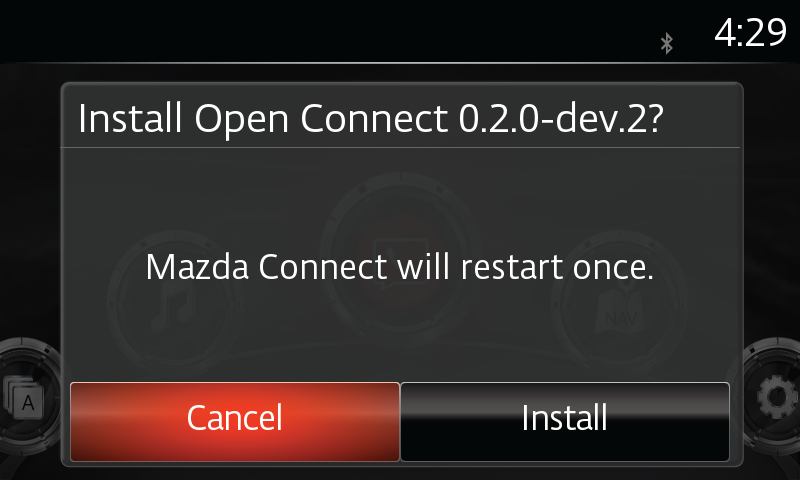
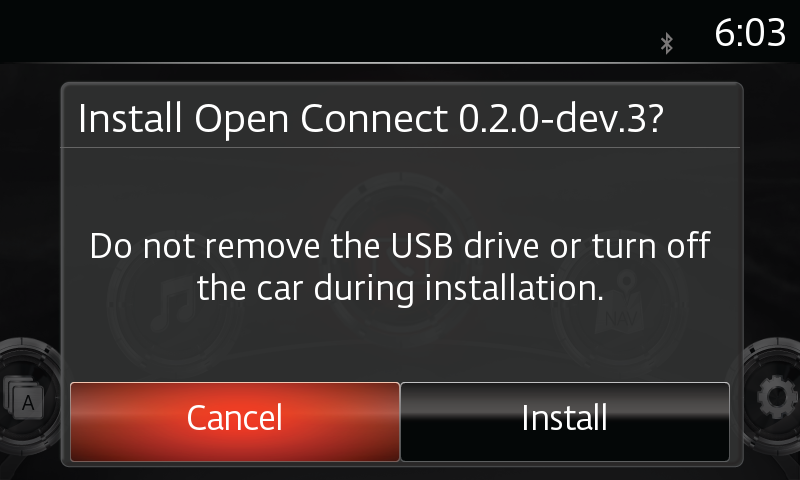
Preserve installer message captures and old-CMU cleanup handoff

Changed region(s): [[0.0938, 0.4688, 0.9062, 0.6562], [0.875, 0.0312, 1.0, 0.0938], [0.7812, 0.2188, 0.8125, 0.2812]]

diff --git a/THIRD_PARTY.md b/THIRD_PARTY.md
@@ -12,13 +12,18 @@ run from a public checkout alone.
 
 ## Documentation screenshots
 
-The seven PNG images in `docs/assets/guide/` show Open Connect **0.2.0-dev.2** running
+The seven PNG images in `docs/assets/guide/` show Open Connect running
 on Mazda firmware **55.00.750B NA**. They were captured directly from the CMU's
 Wayland display on November 18, 2026, without cropping or other image edits.
 Each was reviewed for personal data, credentials and diagnostic overlays.
 The separately authored `cmu-frame.svg` is a decorative bezel displayed around
 the captures by the website; it is not part of the captured screen.
-The USB bundle used for capture came from [CI run 44350948917](https://github.com/aeharding/open-connect/actions/runs/44350948917)
+`install.png` and `complete.png` show **0.2.0-dev.3**, from
+[CI run 44368399412](https://github.com/aeharding/open-connect/actions/runs/44368399412)
+(source `df7fd03`), with bundle SHA-256
[1 lines of base64/hex data omitted]
+The five unchanged Settings/feature/uninstall captures show **0.2.0-dev.2**.
+Their USB bundle came from [CI run 44350948917](https://github.com/aeharding/open-connect/actions/runs/44350948917)
 (source `2f30ead`), with SHA-256
[1 lines of base64/hex data omitted]
 
